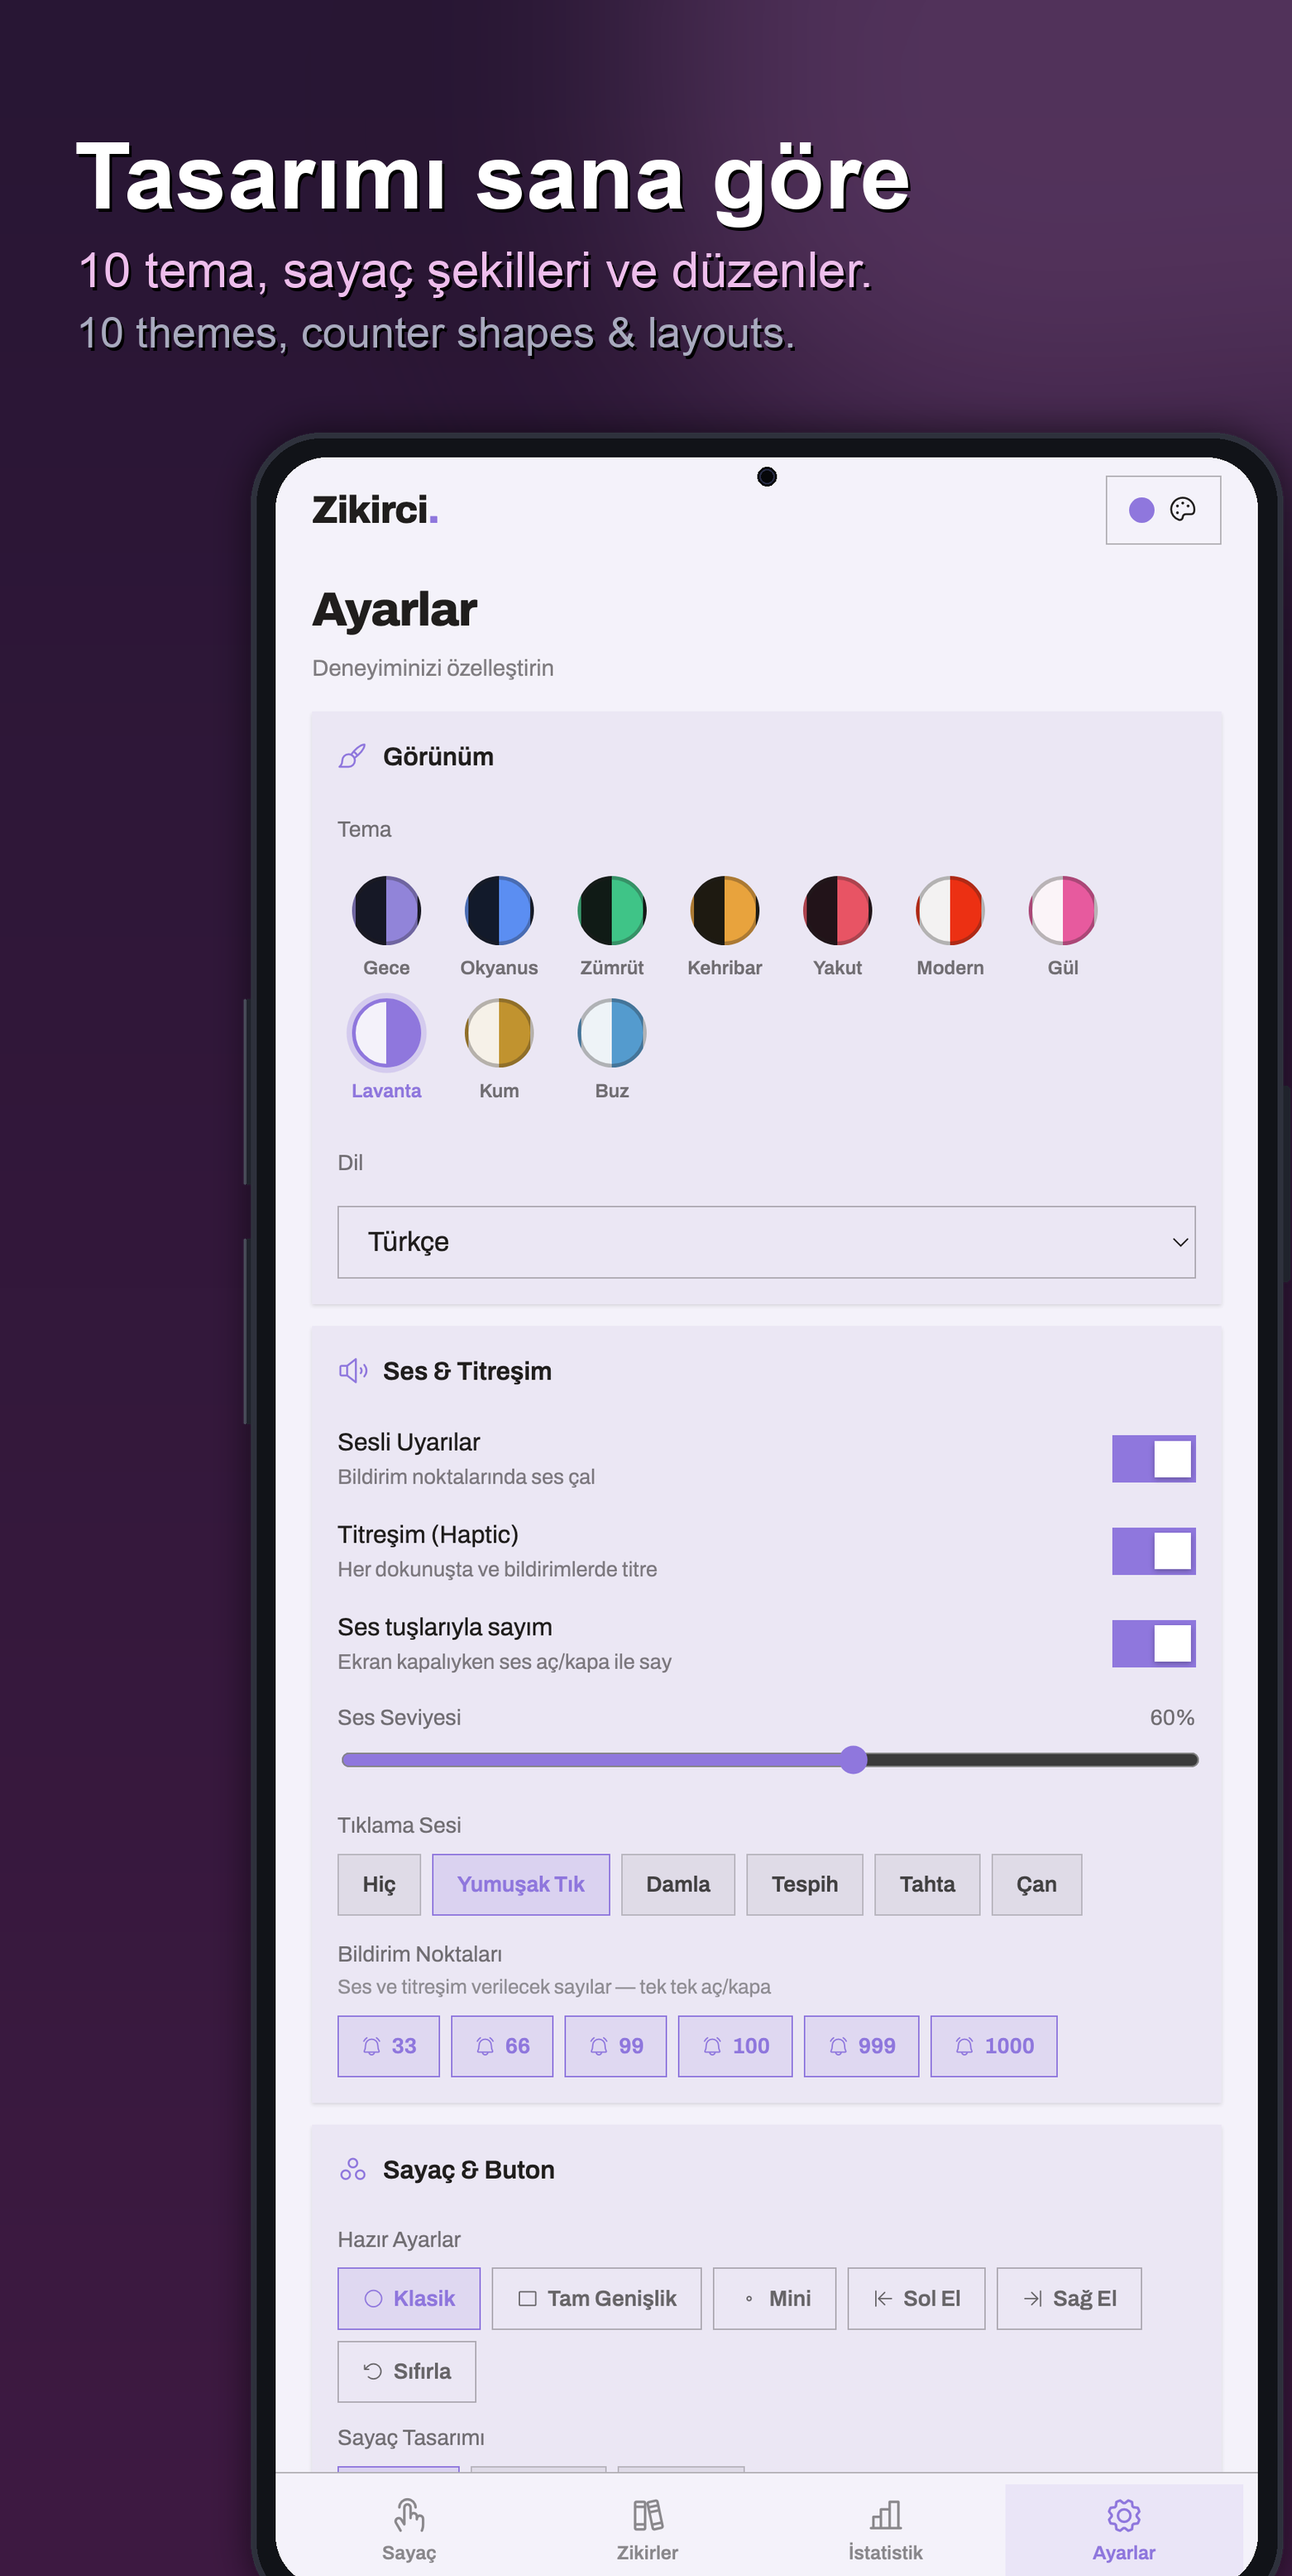
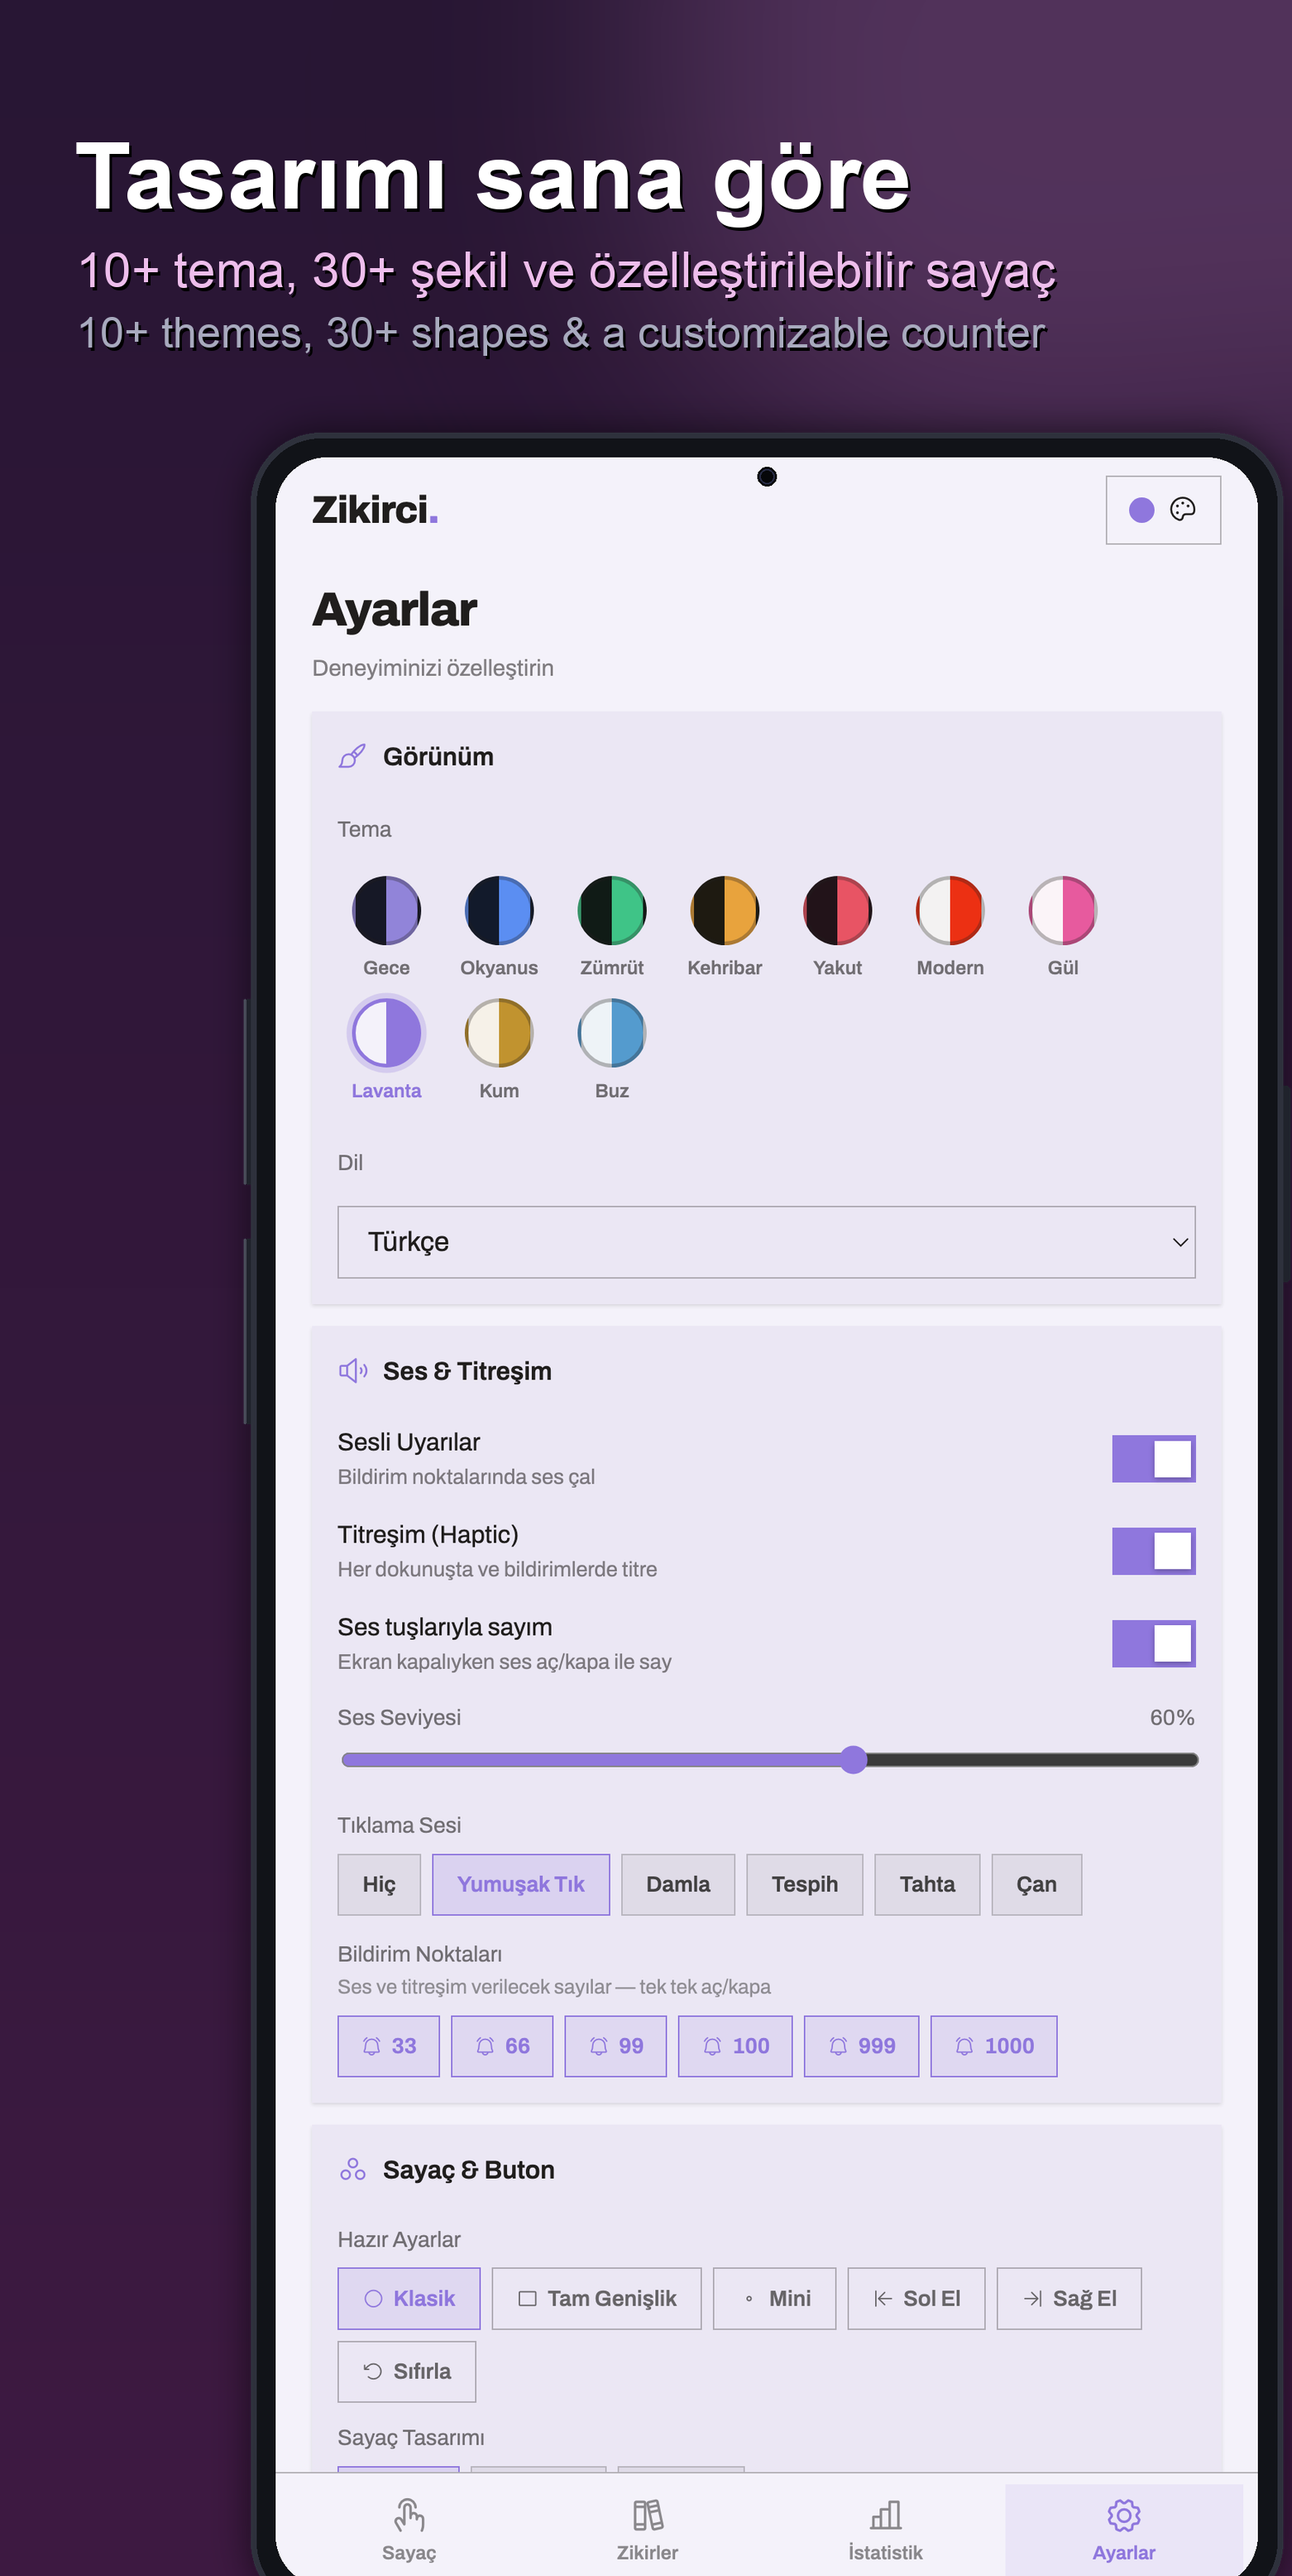
chore(store): reword customize/easy hero sublines & listing copy
- customize hero: "10+ tema, 30+ şekil ve özelleştirilebilir sayaç"
- easy hero: "Dikkat dağıtan öğeler olmaksızın — tek dokunuşla say"
- update EN sublines to match; regen both heroes
- PLAY_LISTING.md: reworded short descriptions and reordered highlights

Claude-Session: https://claude.ai/code/session_01H6ZWpQPSjBfG3EB2YLQY4G

Changed region(s): [[0.0922, 0.0935, 0.8297, 0.1558]]

diff --git a/tools/hero_set.py b/tools/hero_set.py
@@ -68,11 +68,11 @@ SPECS = [
      "Reklamsız. Çevrimdışı.", "Reklam yok, takip yok — her şey cihazında.",
      "No ads, no tracking — everything on your device."),
     ("customize", "08-ayarlar-lavanta-v1.png", (40, 22, 52), (62, 26, 66), (214, 140, 214), (238, 190, 236),
-     "Tasarımı sana göre", "10 tema, sayaç şekilleri ve düzenler.",
-     "10 themes, counter shapes & layouts."),
+     "Tasarımı sana göre", "10+ tema, 30+ şekil ve özelleştirilebilir sayaç",
+     "10+ themes, 30+ shapes & a customizable counter"),
     ("easy", "03-birlesik-gul-v1.png", (46, 30, 20), (62, 40, 22), (240, 176, 92), (250, 214, 160),
-     "Sade, kullanımı kolay", "Tek dokunuşla say — dağıtan hiçbir şey yok.",
-     "One tap to count — zero clutter."),
+     "Sade, kullanımı kolay", "Dikkat dağıtan öğeler olmaksızın — tek dokunuşla say",
+     "Count with one tap — no distractions."),
     ("stats", "07-istatistik-okyanus-v1.png", (10, 30, 44), (12, 46, 60), (86, 182, 216), (168, 224, 244),
      "İlerlemeni izle", "Isı haritası, günlük ve haftalık istatistik.",
      "Heatmap, daily & weekly stats."),

diff --git a/store/PLAY_LISTING.md b/store/PLAY_LISTING.md
@@ -10,19 +10,20 @@ Play limitleri: **Başlık** ≤30, **Kısa açıklama** ≤80, **Tam açıklama
 **Uygulama adı:** `Zikirci`
 
 **Kısa açıklama** (80):
-`Reklamsız zikirmatik — ses tuşuyla say, çevrimdışı çalışır, tamamen senin.`
+`Reklamsız, tümüyle özelleştirilebilir, sade ve kolay kullanılabilir zikirmatik.`
 
 **Tam açıklama:**
+
 ```
 Zikirci — sade, hızlı ve dikkat dağıtmayan bir dijital tesbih (zikirmatik).
 
 ⭐ ÖNE ÇIKANLAR
-• Fiziksel ses tuşuyla say — ekran kapalıyken bile zikrine devam et.
 • Reklamsız. Takip yok, hesap yok — her şey cihazında, çevrimdışı çalışır.
 • Kullanımı kolay — tek dokunuşla say, sade arayüz, dağıtan hiçbir şey yok.
 • Özelleştirilebilir tasarım — 10 tema, sayaç şekilleri, tesbih/birleşik/klasik düzenler.
-• Hedef ve tesbih modları — 33 / 66 / 99 ayraçları, serbest sayım.
 • Kilit modu — cebindeyken yanlışlıkla sayımı önler.
+• Hedef ve tesbih modları — 33 / 66 / 99 ayraçları, serbest sayım.
+• Fiziksel ses tuşuyla say — ekran kapalıyken bile zikrine devam et.
 • İstatistik — ısı haritası, günlük ve haftalık ilerleme.
 • Çoklu dil ve tam sağdan-sola (RTL) desteği.
 
@@ -37,19 +38,20 @@ ister ses tuşuna bas — sen zikrine odaklan, saymayı Zikirci halletsin.
 **App name:** `Dhikrer`
 
 **Short description** (80):
-`Ad-free dhikr counter — count with volume keys, works offline, fully yours.`
+`Ad-free dhikr counter — count with volume keys, works offline, fully customizable.`
 
 **Full description:**
+
 ```
 Dhikrer — a simple, fast, distraction-free digital tasbih (dhikr counter).
 
 ⭐ HIGHLIGHTS
-• Count with the physical volume keys — keep going even with the screen off.
 • Ad-free. No tracking, no account — everything stays on your device, works offline.
 • Easy to use — one tap to count, clean UI, zero clutter.
 • Customizable design — 10 themes, counter shapes, tasbih / unified / classic layouts.
 • Goal & tasbih modes — 33 / 66 / 99 markers, or free counting.
 • Lock mode — prevents accidental counts in your pocket.
+• Count with the physical volume keys — keep going even with the screen off.
 • Statistics — heatmap, daily and weekly progress.
 • Multi-language with full right-to-left (RTL) support.
 
